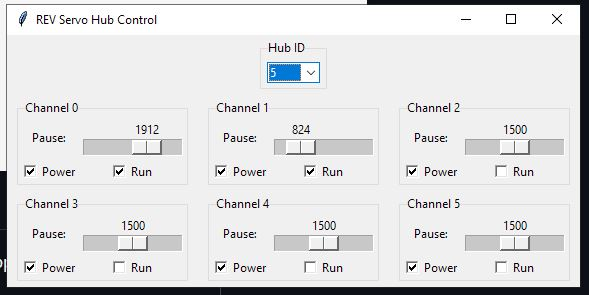
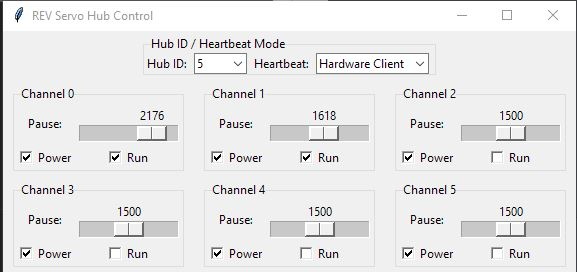
added support of sending roborio heartbeat frame.

diff --git a/test.py b/test.py
@@ -9,10 +9,21 @@ CAN_BITRATE = 1000000
 class RevServoHubCAN:
     def __init__(self, channel=CAN_CHANNEL, bustype='canalystii', bitrate=CAN_BITRATE):
         self.bus = can.interface.Bus(channel=channel, bustype=bustype, bitrate=bitrate)
-        self.hub_id = 3  # Default hub ID
+        self.hub_id = 3
+        self.fake_fpga_counter = 0x2882b8fd
+        self.counter_increment = 32152
+        self.keepalive_mode = "none"  # one of: "none", "hardware", "roborio"
 
     def set_hub_id(self, hub_id: int):
         self.hub_id = hub_id
+
+    def set_keepalive_mode(self, label: str):
+        lookup = {
+            "None": "none",
+            "Hardware Client": "hardware",
+            "roboRIO": "roborio"
+        }
+        self.keepalive_mode = lookup.get(label, "none")
 
     def pause_to_bytes(self, pause: int) -> bytes:
         return pause.to_bytes(2, byteorder='little')
@@ -35,9 +46,30 @@ class RevServoHubCAN:
         self.bus.send(msg)
 
     def send_keepalive(self):
-        fake_client_id = 0x000502C0
-        msg = can.Message(arbitration_id=fake_client_id, data=bytes([0x01]), is_extended_id=True)
+        if self.keepalive_mode == "hardware":
+            self.send_fake_client_keepalive()
+        elif self.keepalive_mode == "roborio":
+            self.send_roborio_heartbeat()
+
+    def send_fake_client_keepalive(self):
+        msg = can.Message(arbitration_id=0x000502C0, data=bytes([0x01]), is_extended_id=True)
         self.bus.send(msg)
+
+    def send_roborio_heartbeat(self, enabled=True, auto=False, test=False, alliance_red=False, countdown=None):
+        UNIVERSAL_HEARTBEAT_CAN_ID = 0x01011840
+
+        counter_bytes = self.fake_fpga_counter.to_bytes(4, byteorder='big')
+        mode_byte = 0
+        if enabled: mode_byte |= (1 << 4)
+        if test: mode_byte |= (1 << 3)
+        if auto: mode_byte |= (1 << 2)
+        if alliance_red: mode_byte |= (1 << 0)
+
+        byte7 = countdown if countdown is not None else 0xFF
+        data = list(counter_bytes) + [mode_byte, 0x00, 0x00, byte7]
+        msg = can.Message(arbitration_id=UNIVERSAL_HEARTBEAT_CAN_ID, data=data, is_extended_id=True)
+        self.bus.send(msg)
+        self.fake_fpga_counter = (self.fake_fpga_counter + self.counter_increment) % (2 ** 32)
 
 
 class ServoHubGUI:
@@ -50,21 +82,33 @@ class ServoHubGUI:
         self.power = [tk.IntVar(value=1) for _ in range(6)]
         self.run = [tk.IntVar(value=0) for _ in range(6)]
         self.hub_id_var = tk.IntVar(value=3)
+        self.heartbeat_mode_var = tk.StringVar(value="None")
 
         self.build_ui()
         self.keepalive_loop()
 
     def build_ui(self):
-        # Hub ID selector
-        id_frame = ttk.LabelFrame(self.root, text="Hub ID")
+        # Hub ID and Heartbeat Selector
+        id_frame = ttk.LabelFrame(self.root, text="Hub ID / Heartbeat Mode")
         id_frame.grid(row=0, column=0, columnspan=3, pady=5)
+
+        ttk.Label(id_frame, text="Hub ID:").grid(row=0, column=0)
         id_dropdown = ttk.Combobox(
-            id_frame, textvariable=self.hub_id_var, values=list(range(1, 64)), width=5, state="readonly"
+            id_frame, textvariable=self.hub_id_var,
+            values=list(range(1, 64)), width=5, state="readonly"
         )
-        id_dropdown.grid(row=0, column=0, padx=5, pady=5)
+        id_dropdown.grid(row=0, column=1, padx=5)
         id_dropdown.bind("<<ComboboxSelected>>", self.update_hub_id)
 
-        # Channel sliders and toggles
+        ttk.Label(id_frame, text="Heartbeat:").grid(row=0, column=2)
+        heartbeat_dropdown = ttk.Combobox(
+            id_frame, textvariable=self.heartbeat_mode_var,
+            values=["None", "Hardware Client", "roboRIO"], width=15, state="readonly"
+        )
+        heartbeat_dropdown.grid(row=0, column=3, padx=5)
+        heartbeat_dropdown.bind("<<ComboboxSelected>>", self.update_heartbeat_mode)
+
+        # Channels
         for i in range(6):
             ch_frame = ttk.LabelFrame(self.root, text=f"Channel {i}")
             ch_frame.grid(row=1 + i // 3, column=i % 3, padx=10, pady=5, sticky="nsew")
@@ -85,9 +129,11 @@ class ServoHubGUI:
             ).grid(row=1, column=1)
 
     def update_hub_id(self, _=None):
-        hub_id = self.hub_id_var.get()
-        self.hub.set_hub_id(hub_id)
+        self.hub.set_hub_id(self.hub_id_var.get())
         self.send_all()
+
+    def update_heartbeat_mode(self, _=None):
+        self.hub.set_keepalive_mode(self.heartbeat_mode_var.get())
 
     def update_channel(self, idx):
         self.send_all()

diff --git a/readme.md b/readme.md
@@ -5,7 +5,6 @@
 
 This protocol is **unofficial and reverse-engineered**. For official documentation or firmware support, contact [REV Robotics](https://www.revrobotics.com/).
 
-
 Demo script: using canalystii converter
 
 ![image](img/Capture.JPG)
@@ -92,15 +91,25 @@ Each command frame is **7 bytes**:
 
 ---
 
-## 🛰 Keepalive
+## 🛰 Keepalive (Fake Hardware Client)
 
-The Servo Hub requires a keepalive frame to remain active.
+The Servo Hub requires a keepalive frame to enable.
 
 | Purpose     | CAN ID      | Data     |
 |-------------|-------------|----------|
 | Keepalive   | `0x000502C0`| `[0x01]` |
 
 - Should be sent **every 100ms** (or faster)
+
+---
+
+## 🛰 Keepalive (roboRIO)
+
+If roboRIO heartbeat frame is used, fake hardware client frame will no longer enable device until servo hub is power cycled.
+
+For more information, [here](https://github.com/sikaxn/frc-canbus-heartbeat/tree/main).
+
+Note: Use this in official FRC robot is illegal. 
 
 ---
 
